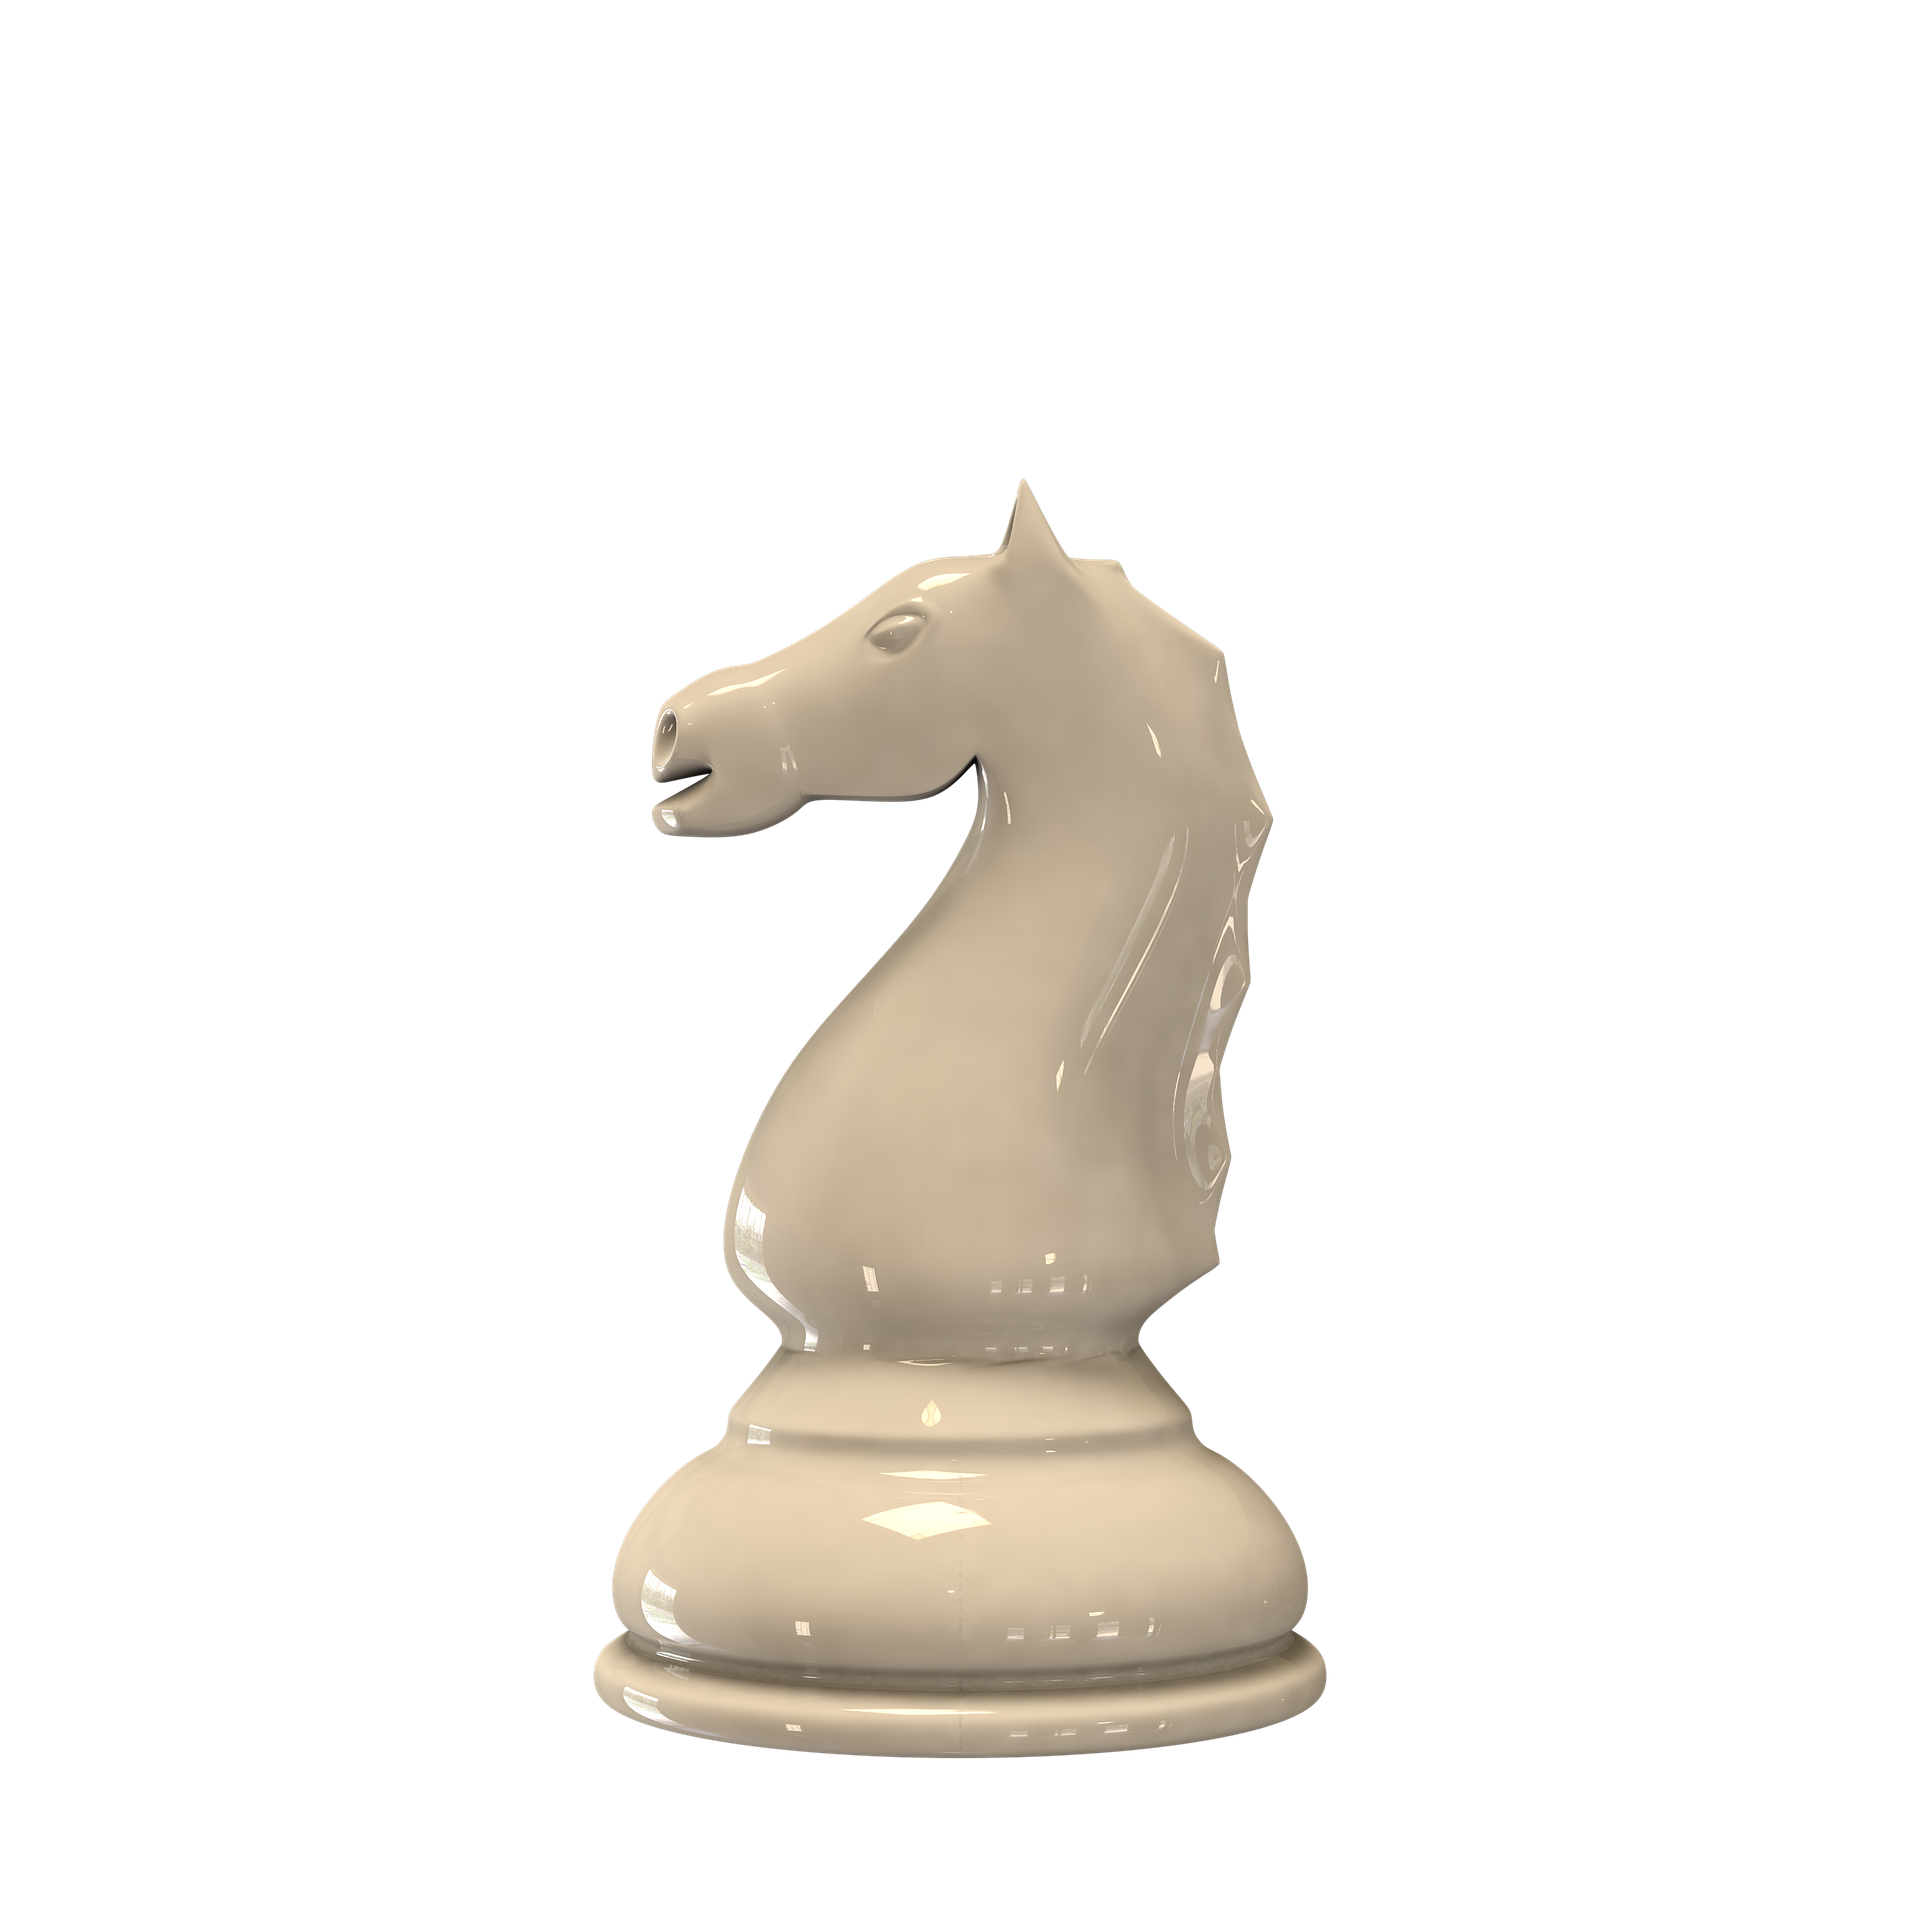
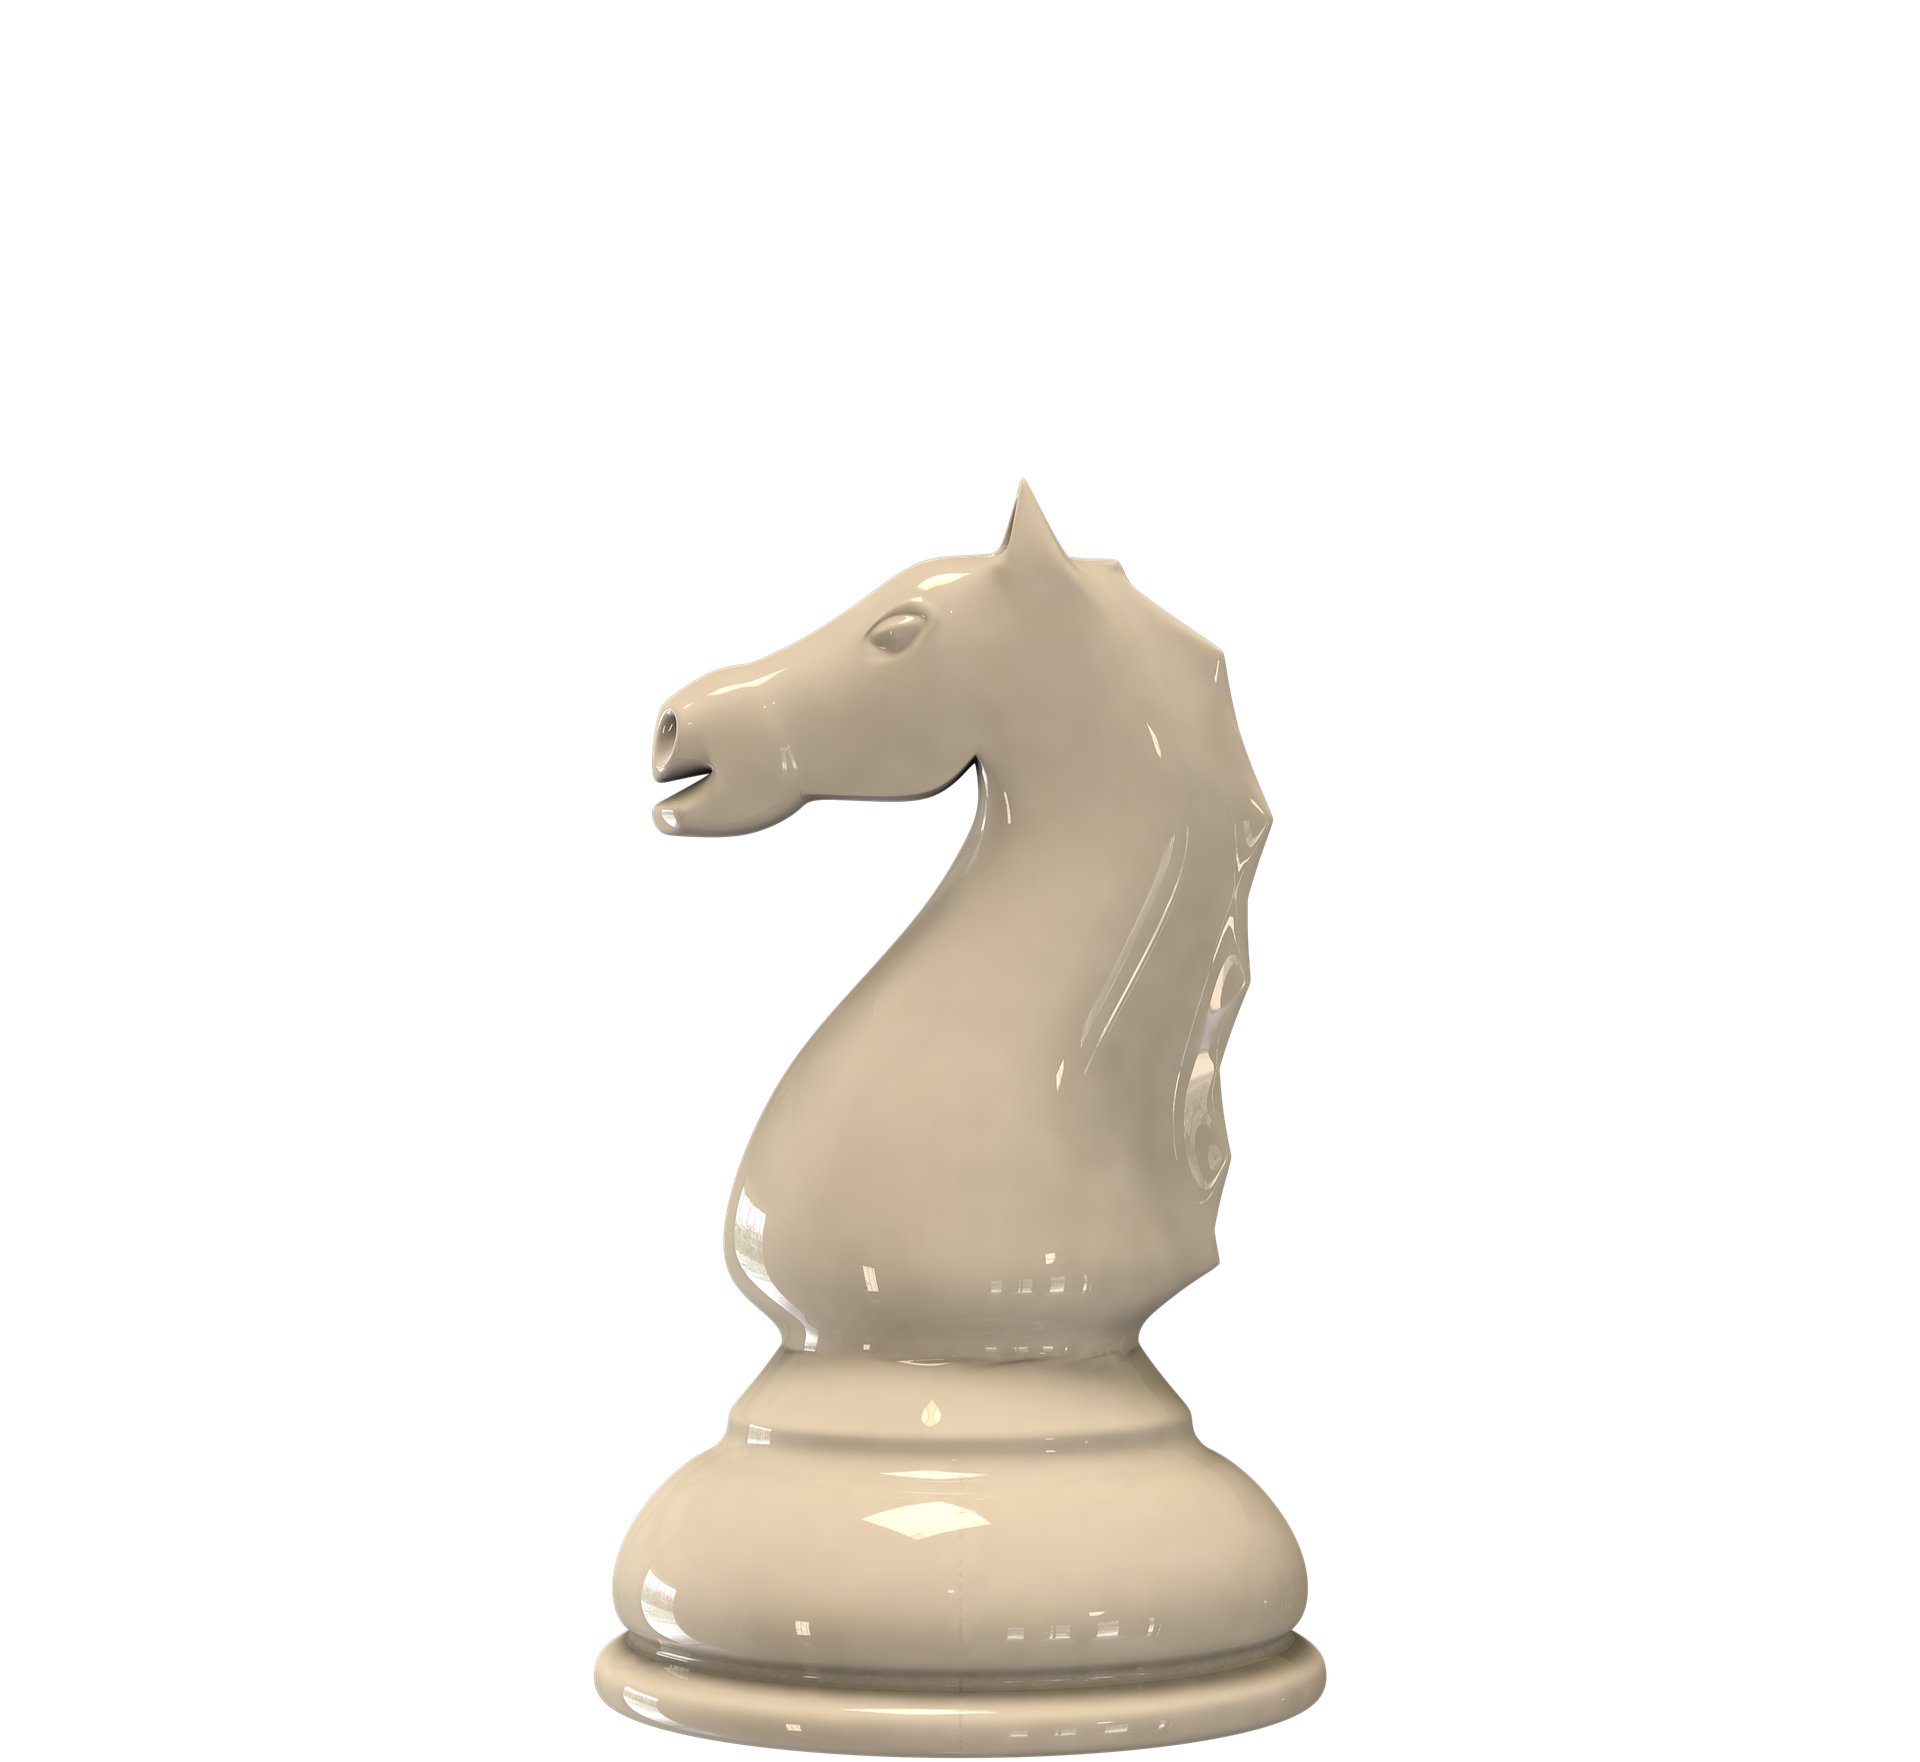
changing the footer at homepage and adjusting the of images size of pieces

Changed region(s): [[0.3125, 0.2497, 0.6875, 0.9989]]

diff --git a/index.html b/index.html
@@ -12,7 +12,7 @@
     <link rel="stylesheet" href="style/uni.css">
     <link rel="stylesheet" href="style/home.css">
     <link rel="stylesheet" href="style/nav.css">
-    <link rel="icon" type="image/png" href="asset/homeImages/logo.png">
+    <link rel="icon" type="image/png" href="asset/homeImages/logo.svg">
     <title>Chess Guide and Learning</title>
   </head>
   <body>
@@ -128,18 +128,30 @@
 
     <!-- Footer Section -->
     <footer class="footer-section">
-      <div class="footer-container container">
-        <div class="footer-content">
-          <img class="footer-logo" src="asset/homeImages/logo.svg" alt="chess-logo">
-          <h2 class="footer-title">CHESS FUNDAMENTALS</h2> 
+      <div class="footer-piece-container container">
+        <div class="footer-item-container">
+          <a href="#"><img class="footer-piece-img" src="asset/ChessBasicImages/king.png" alt="kingPiece"></a>
+          <p class="piece-name">King</p>
         </div>
-        <div class="footer-link-container">
-          <ul class="footer-list">
-            <li class="footer-item"><a class="footer-link" href="index.html">Home</a></li>
-            <li class="footer-item"><a class="footer-link" href="pages/ChessBasic.html">Chess Basics</a></li>
-            <li class="footer-item"><a class="footer-link" href="pages/ChessPieces.html">Chess Pieces</a></li>
-            <li class="footer-item"><a class="footer-link" href="pages/HowtoPlay.html">How to Play</a></li>
-          </ul>
+        <div class="footer-item-container">
+          <a href="#"><img class="footer-piece-img" src="asset/ChessBasicImages/queen.png" alt="QueenPiece"></a>
+          <p class="piece-name">Queen</p>
+        </div>
+        <div class="footer-item-container">
+          <a href="#"><img class="footer-piece-img" src="asset/ChessBasicImages/bishop.png" alt="bishopPiece"></a>
+          <p class="piece-name">Bishop</p>
+        </div>
+        <div class="footer-item-container">
+          <a href="#"><img class="footer-piece-img" src="asset/ChessBasicImages/knight.png" alt="knightPiece"></a>
+          <p class="piece-name">knight</p>
+        </div>
+        <div class="footer-item-container">
+          <a href="#"><img class="footer-piece-img" src="asset/ChessBasicImages/rook.png" alt="rookPiece"></a>
+          <p class="piece-name">Rook</p>
+        </div>
+        <div class="footer-item-container">
+          <a href="#"><img class="footer-piece-img" src="asset/ChessBasicImages/pawn.png" alt="pawnPiece"></a>
+          <p class="piece-name">Pawn</p>
         </div>
       </div>
     </footer>

diff --git a/style/home.css b/style/home.css
@@ -5,6 +5,7 @@
   align-items: center;
   justify-content: space-between;
   gap: var(--size-xl);
+  padding: 2rem 0rem;
 }
 
 .hero-section{
@@ -72,6 +73,7 @@
   justify-content: space-between;
   gap: var(--size-xl);
   flex-wrap: wrap;
+  padding: 2rem 0rem;
 }
 
 .card-section{
@@ -109,6 +111,7 @@
   display: flex;
   align-items: center;
   justify-content: space-between;
+  padding: 2rem 0rem;
 }
 
 .wlc-section{
@@ -172,16 +175,13 @@
 }
 
 .featured-container {
-  padding: 5rem 2rem;
-  width: 45rem;
-  height: auto;
+  padding: 4.5rem 2rem;
   background: url(../asset/homeImages/featured-basic.png) no-repeat center center/cover;
   color: white;
   display: flex;
   flex-direction: column;
   justify-content: center;
   box-shadow: var(--shadow-lg);
-  border-radius: var(--radius-xl);
 }
 
 
@@ -212,4 +212,31 @@
   color: var(--text-secondary);
   line-height: 1.5rem;
   padding-bottom: 1.5rem;
+}
+
+
+/* footer */
+.footer-piece-img{
+  width: 10rem;
+}
+
+.footer-piece-container{
+  display: flex;
+  align-items: center;
+  justify-content: space-between;
+  background-color: var(--bg-secondary);
+}
+
+.footer-item-container{
+  display: flex;
+  flex-direction: column;
+  justify-content: center;
+  align-items: center;
+  padding: 1rem 0rem;
+}
+
+.piece-name{
+  font-size: var(--fs-p);
+  font-family: var(--font-body);
+  color: var(--text-secondary);
 }

diff --git a/pages/ChessBasic.html b/pages/ChessBasic.html
@@ -9,12 +9,12 @@
     <link rel="stylesheet" href="../style/uni.css">
     <link rel="stylesheet" href="../style/chessBasic.css">
     <link rel="stylesheet" href="../style/nav.css">
-    <link rel="icon" type="image/png" href="../asset/homeImages/logo.png">
+    <link rel="icon" type="image/png" href="../asset/homeImages/logo.svg">
     <title>Chess Basic</title>
   </head>
   <body>
     <!-- Header Section -->
-    <header>
+    <header class="header-section">
       <nav class="nav-container">
         <div class="nav-content">
           <img class="nav-logo" src="../asset/homeImages/logo.svg" alt="chess-logo">
@@ -235,7 +235,7 @@
     </main>
 
     <!-- Footer Section -->
-    <footer>
+    <footer class="footer-section">
       <div class="footer-container">
         <div class="footer-content">
           <img class="footer-logo" src="../asset/homeImages/logo.svg" alt="chess-logo">

diff --git a/pages/ChessPieces.html b/pages/ChessPieces.html
@@ -9,7 +9,7 @@
     <link rel="stylesheet" href="../style/uni.css">
     <link rel="stylesheet" href="../style/chessPieces.css">
     <link rel="stylesheet" href="../style/nav.css">
-    <link rel="icon" type="image/png" href="../asset/homeImages/logo.png">
+    <link rel="icon" type="image/png" href="../asset/homeImages/logo.svg">
     <title>Chess Pieces</title>
   </head>
   <body>

diff --git a/pages/HowtoPlay.html b/pages/HowtoPlay.html
@@ -9,7 +9,7 @@
   <link rel="stylesheet" href="../style/uni.css">
   <link rel="stylesheet" href="../style/HowtoPlay.css">
   <link rel="stylesheet" href="../style/nav.css">
-  <link rel="icon" type="image/png" href="../asset/homeImages/logo.png">
+  <link rel="icon" type="image/png" href="../asset/homeImages/logo.svg">
   <title>How to Play - Chess</title>
 </head>
 <body>

diff --git a/style/nav.css b/style/nav.css
@@ -11,7 +11,6 @@
   align-items: center;
   justify-content: center;
   gap: var(--size-md);
-  background-color: var(--bg-primary);
   height: auto;
   padding: var(--size-lg);
 }
